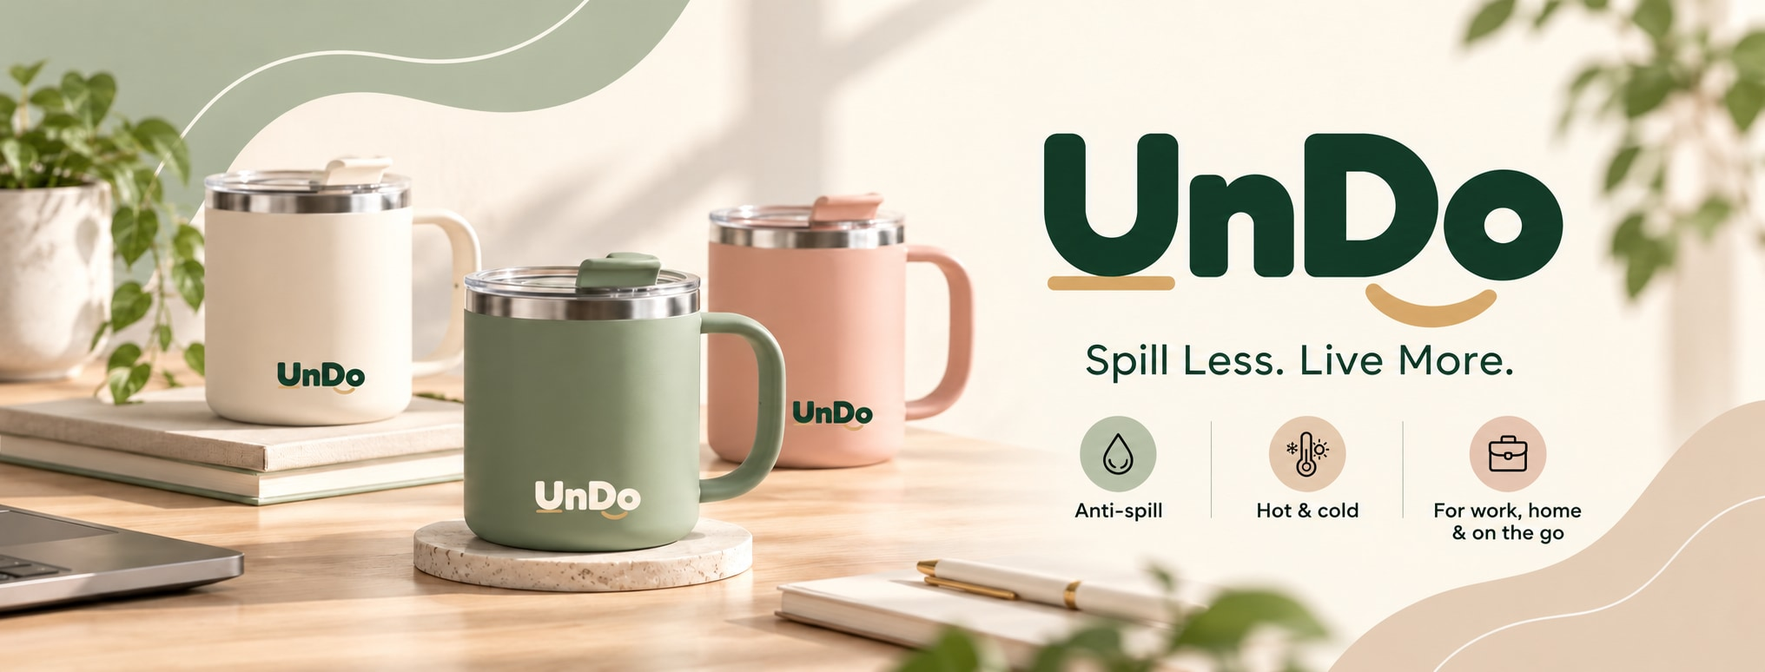
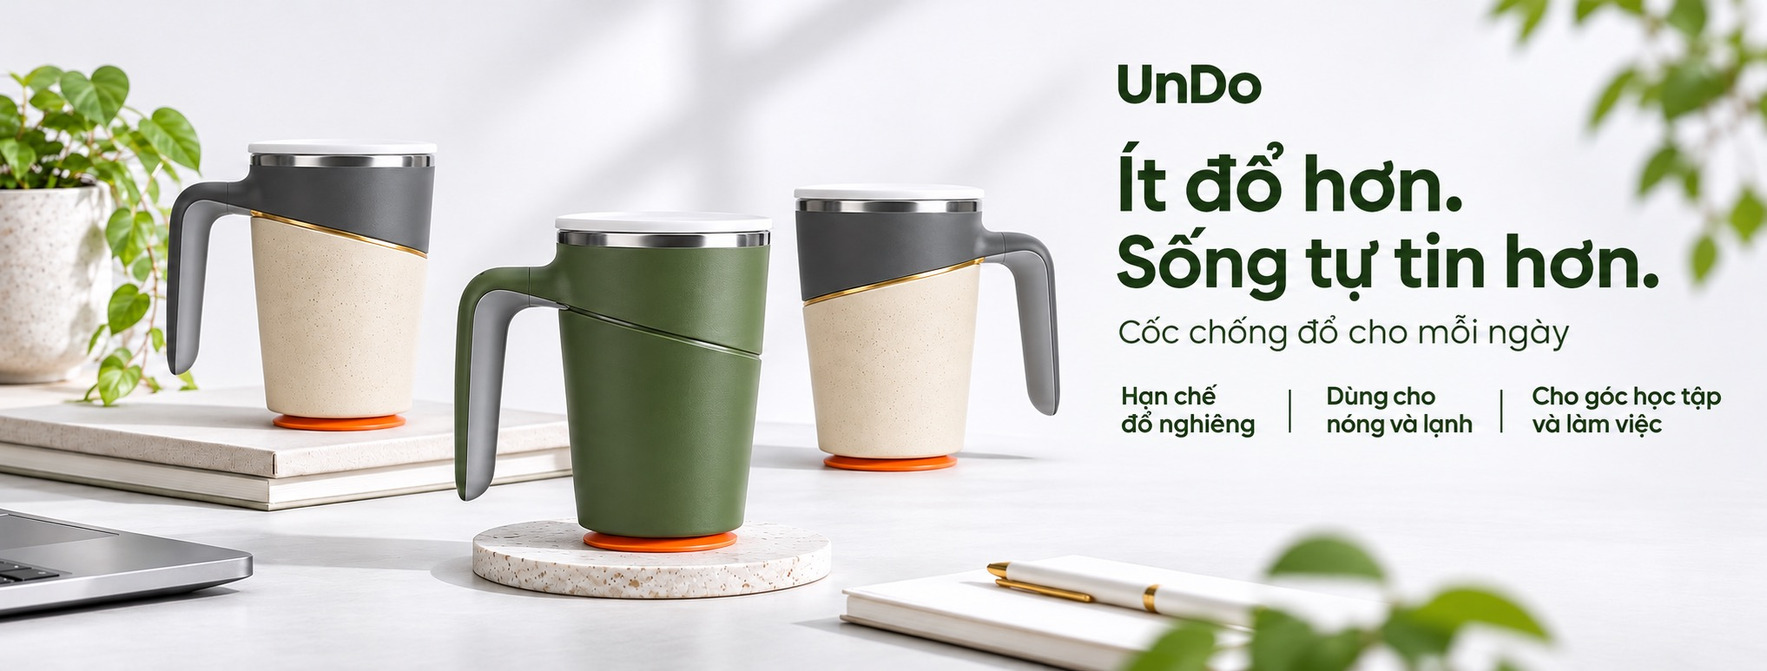
Update imagery and refine site layout

diff --git a/index.html b/index.html
@@ -28,7 +28,7 @@
 <div class="searchbox" id="searchBox"><div class="wrap"><svg aria-hidden="true" width="25" height="25" fill="none" stroke="currentColor" stroke-width="1.5" viewBox="0 0 24 24"><circle cx="10" cy="10" r="7"/><path d="m15 15 6 6"/></svg><input id="searchInput" type="search" placeholder="Tìm mẫu cốc hoặc phân loại..." aria-label="Tìm kiếm sản phẩm"/><button class="close" id="closeSearch" aria-label="Đóng tìm kiếm">×</button></div><div class="wrap"><p>Gợi ý: Basic, Minimalism, Gaming Edition, Art, Meme</p></div></div>
 <main id="main">
   <section id="top" aria-label="Bộ sưu tập Undo">
-    <div class="hero-photo"><img src="asset/hero.jpg" alt="Bộ sưu tập cốc chống đổ Undo màu kem, xanh sage và hồng, slogan Spill Less. Live More." fetchpriority="high" /></div>
+    <div class="hero-photo"><img src="asset/hero.jpg?v=20261112" alt="Cốc Basic và Minimalism trên nền trắng. Ít đổ hơn. Sống tự tin hơn. Cốc chống đổ cho mỗi ngày." fetchpriority="high" /></div>
     <div class="hero-foot"><div class="wrap"><div class="hero-intro"><h1>Một ngày không tràn đổ.</h1><p>Cốc chống đổ Undo cho bàn học và góc làm việc.</p></div><div class="actions"><a class="btn" href="#collection">Chọn cốc</a><a class="btn secondary" href="#why">Xem thiết kế</a></div></div></div>
   </section>
   <div class="short-features"><div class="wrap feature-list">
@@ -37,27 +37,27 @@
     <div class="short-feature"><svg aria-hidden="true" viewBox="0 0 24 24" fill="none" stroke="currentColor" stroke-width="1.7"><path d="m6 8 6-5 6 5v11l-6 3-6-3zM6 8l6 4 6-4M12 12v10"/></svg>Đơn giản, dễ sử dụng</div>
   </div></div>
   <section class="section" id="collection"><div class="wrap">
-    <div class="section-head"><div><h2 class="section-title">Tất cả</h2><p class="subtext">Sáu mẫu cốc với nhiều phân loại để lựa chọn.</p></div><span class="section-link">Sáu mẫu cốc Undo</span></div>
+    <div class="section-head"><div><h2 class="section-title">Tất cả</h2><p class="subtext">Sáu mẫu cốc với nhiều phân loại để lựa chọn.</p></div></div>
     <div class="filters" id="filters"><span class="result-count" id="resultCount">6 sản phẩm</span></div>
     <div class="products" id="productGrid" aria-live="polite"><article class="product"><div class="product-art"><img src="asset/san_pham/Basic_DangCao_XanhReu.png" alt="Basic" /></div><div class="product-info"><h3 class="product-name">Basic</h3><div class="price">179.000đ</div><p>4 phân loại</p></div></article><article class="product"><div class="product-art"><img src="asset/san_pham/Minimalism_CoQuai_KemBe.png" alt="Minimalism" /></div><div class="product-info"><h3 class="product-name">Minimalism</h3><div class="price">199.000đ</div><p>4 phân loại</p></div></article><article class="product"><div class="product-art"><img src="asset/san_pham/Gaming_Edition_QuaiGaming_XanhNgoc.png" alt="Gaming Edition" /></div><div class="product-info"><h3 class="product-name">Gaming Edition</h3><div class="price">229.000đ</div><p>4 phân loại</p></div></article><article class="product"><div class="product-art"><img src="asset/san_pham/Art_1.png" alt="Art" /></div><div class="product-info"><h3 class="product-name">Art</h3><div class="price">229.000đ</div><p>4 phân loại</p></div></article><article class="product"><div class="product-art"><img src="asset/san_pham/Meme_1.png" alt="Meme" /></div><div class="product-info"><h3 class="product-name">Meme</h3><div class="price">219.000đ</div><p>4 phân loại</p></div></article><article class="product"><div class="product-art"><img src="asset/san_pham/Coc_Tu_Thiet_Ke_Trang_CoQuai.png" alt="Cốc tự thiết kế" /></div><div class="product-info"><h3 class="product-name">Cốc tự thiết kế</h3><div class="price">249.000đ</div><p>2 phân loại</p></div></article></div><noscript><p class="fineprint">Bật JavaScript để chọn phân loại và dùng giỏ hàng demo.</p></noscript>
   </div></section>
   <section class="editorial" id="why"><div class="editorial-row">
-    <div class="editorial-image"><img src="asset/desk.jpg" loading="lazy" alt="Undo trên bàn làm việc cạnh laptop và sổ tay" /></div>
+    <div class="editorial-image"><img src="asset/desk.jpg?v=20261112" loading="lazy" alt="Cốc Basic và Minimalism trên bàn trắng cạnh laptop và sổ tay" /></div>
     <div class="editorial-content"><h2>Thiết kế của Undo</h2><p>Đôi khi, chỉ một cú chạm nhẹ cũng đủ khiến mọi thứ đảo lộn. Undo được lên ý tưởng để chiếc cốc có thể đứng vững hơn trong những khoảnh khắc bận rộn.</p><ul class="benefits"><li>Đế chống nghiêng cho bề mặt phẳng, nhẵn</li><li>Thân cốc cách nhiệt, dùng cho nóng và lạnh</li><li>Phong cách tối giản, hợp mọi góc bàn</li></ul><a href="#collection" class="btn">Chọn cốc của bạn</a></div>
   </div></section>
-  <section class="color-promo"><div class="wrap color-layout"><div class="color-copy"><h2>Chọn mẫu cốc</h2><p>Khám phá các mẫu và phân loại cốc Undo cho góc làm việc mỗi ngày.</p><a href="#collection" class="btn secondary">Xem các mẫu cốc</a></div><div class="color-pic"><img src="asset/collection.jpg" loading="lazy" alt="Ảnh minh họa cốc Undo" /></div></div></section>
-  <section class="story" id="story"><div class="wrap story-inner"><div class="story-content"><h2>Câu chuyện Undo</h2><p>Undo ra đời từ một ý tưởng rất đơn giản: những rắc rối nhỏ không nên làm gián đoạn cả một ngày. Chúng mình tin rằng thiết kế đẹp nhất là thiết kế khiến cuộc sống thuận tiện hơn.</p><p>Từ bàn học đến phòng họp, Undo muốn đồng hành cùng những phút giây bạn tập trung làm điều mình thích.</p><a href="#collection" class="btn secondary">Xem sản phẩm</a></div><div class="story-image"><img src="asset/story.jpg" loading="lazy" alt="Cốc Undo xanh sage được cầm trên tay"/></div></div></section>
+  <section class="color-promo"><div class="wrap color-layout"><div class="color-copy"><h2>Chọn mẫu cốc</h2><p>Khám phá các mẫu và phân loại cốc Undo cho góc làm việc mỗi ngày.</p><a href="#collection" class="btn secondary">Xem các mẫu cốc</a></div><div class="color-pic"><img src="asset/collection.jpg?v=20261112" loading="lazy" alt="Ảnh minh họa cốc Undo" /></div></div></section>
+  <section class="story" id="story"><div class="wrap story-inner"><div class="story-content"><h2>Câu chuyện Undo</h2><p>Undo ra đời từ một ý tưởng rất đơn giản: những rắc rối nhỏ không nên làm gián đoạn cả một ngày. Chúng mình tin rằng thiết kế đẹp nhất là thiết kế khiến cuộc sống thuận tiện hơn.</p><p>Từ bàn học đến phòng họp, Undo muốn đồng hành cùng những phút giây bạn tập trung làm điều mình thích.</p><a href="#collection" class="btn secondary">Xem sản phẩm</a></div><div class="story-image"><img src="asset/story.jpg?v=20261112" loading="lazy" alt="Cốc Basic xanh rêu được cầm trên tay"/></div></div></section>
   <section class="policy-wrap" id="policy"><div class="wrap"><div class="policy-grid">
     <div class="policy-item"><div class="policy-icon"><svg aria-hidden="true" viewBox="0 0 24 24" fill="none" stroke="currentColor"><path d="M2 7h12v10H2zM14 10h4l4 4v3h-8z"/><circle cx="6" cy="18" r="2"/><circle cx="18" cy="18" r="2"/></svg></div><div class="policy-title">Giao hàng toàn quốc</div><p class="policy-desc">Miễn phí từ 399.000đ sau giảm giá</p></div>
     <div class="policy-item"><div class="policy-icon"><svg aria-hidden="true" viewBox="0 0 24 24" fill="none" stroke="currentColor"><path d="M12 2 4 6v6c0 5 3 8 8 10 5-2 8-5 8-10V6z"/><path d="m8 12 3 3 5-6"/></svg></div><div class="policy-title">Bảo hành</div><p class="policy-desc">6 tháng từ ngày nhận, áp dụng cho lỗi sản xuất</p></div>
     <div class="policy-item"><div class="policy-icon"><svg aria-hidden="true" viewBox="0 0 24 24" fill="none" stroke="currentColor"><path d="M3 9V4h5M3 4a9 9 0 1 1-1 11"/><path d="M12 7v5l4 2"/></svg></div><div class="policy-title">Đổi trả</div><p class="policy-desc">Trong 7 ngày nếu lỗi, giao sai hoặc thiếu hàng</p></div>
     <div class="policy-item"><div class="policy-icon"><svg aria-hidden="true" viewBox="0 0 24 24" fill="none" stroke="currentColor"><path d="M4 5h16v12H8l-4 4z"/><path d="M8 10h8M8 13h5"/></svg></div><div class="policy-title">Đặt hàng thử</div><p class="policy-desc">Không gửi đơn hoặc thu tiền thật</p></div>
   </div></div></section>
-  <section class="section" id="faq"><div class="wrap faq-grid"><div><h2>Hỏi Undo<br/>một chút nhé?</h2><p class="subtext">Thông tin dự kiến trong bản demo.</p></div><div>
-    <details><summary>Điểm đặc biệt của cốc Undo là gì?</summary><p>Ý tưởng Undo kết hợp đế chống nghiêng với kiểu dáng tối giản để hạn chế những cú đổ bất ngờ trên bàn. Hiệu quả thực tế còn phụ thuộc bề mặt và cần được thử nghiệm trên sản phẩm thật. <a href="huong-dan-su-dung.html#su-dung">Xem hướng dẫn sử dụng Everyday Mug 400 ml.</a></p></details>
-    <details><summary>Undo có dùng được cho đồ uống nóng và lạnh không?</summary><p>Bản thiết kế dự kiến dùng thân cốc giữ nhiệt cho đồ uống nóng hoặc lạnh. Thời gian giữ nhiệt chính xác sẽ được công bố sau khi kiểm thử. <a href="huong-dan-su-dung.html#an-toan">Xem hướng dẫn sử dụng Everyday Mug 400 ml.</a></p></details>
-    <details><summary>Đế chống nghiêng dùng trên bề mặt nào?</summary><p>Phù hợp nhất với bàn phẳng, sạch và nhẵn. Không nên dựa hoàn toàn vào khả năng chống đổ trên bề mặt gồ ghề, có khăn trải bàn hoặc khi mang đi xa. <a href="huong-dan-su-dung.html#su-dung">Xem hướng dẫn sử dụng Everyday Mug 400 ml.</a></p></details>
-    <details><summary>Chính sách đổi trả và bảo hành ra sao?</summary><p>Chính sách mô phỏng: đổi trả trong 7 ngày khi sản phẩm lỗi hoặc giao sai, bảo hành 6 tháng cho lỗi sản xuất. Website không nhận đơn hàng hoặc thanh toán thật.</p></details>
+  <section class="section" id="faq"><div class="wrap faq-grid"><div><h2>Hỏi Undo một chút nhé?</h2><p class="subtext">Thông tin dự kiến trong bản demo.</p></div><div>
+    <details><summary><span>Điểm đặc biệt của cốc Undo là gì?</span></summary><p>Ý tưởng Undo kết hợp đế chống nghiêng với kiểu dáng tối giản để hạn chế những cú đổ bất ngờ trên bàn. Hiệu quả thực tế còn phụ thuộc bề mặt và cần được thử nghiệm trên sản phẩm thật. <a href="huong-dan-su-dung.html#su-dung">Xem hướng dẫn sử dụng Everyday Mug 400 ml.</a></p></details>
+    <details><summary><span>Undo có dùng được cho đồ uống nóng và lạnh không?</span></summary><p>Bản thiết kế dự kiến dùng thân cốc giữ nhiệt cho đồ uống nóng hoặc lạnh. Thời gian giữ nhiệt chính xác sẽ được công bố sau khi kiểm thử. <a href="huong-dan-su-dung.html#an-toan">Xem hướng dẫn sử dụng Everyday Mug 400 ml.</a></p></details>
+    <details><summary><span>Đế chống nghiêng dùng trên bề mặt nào?</span></summary><p>Phù hợp nhất với bàn phẳng, sạch và nhẵn. Không nên dựa hoàn toàn vào khả năng chống đổ trên bề mặt gồ ghề, có khăn trải bàn hoặc khi mang đi xa. <a href="huong-dan-su-dung.html#su-dung">Xem hướng dẫn sử dụng Everyday Mug 400 ml.</a></p></details>
+    <details><summary><span>Chính sách đổi trả và bảo hành ra sao?</span></summary><p>Chính sách mô phỏng: đổi trả trong 7 ngày khi sản phẩm lỗi hoặc giao sai, bảo hành 6 tháng cho lỗi sản xuất. Website không nhận đơn hàng hoặc thanh toán thật.</p></details>
   </div></div></section>
   <section class="newsletter"><div class="wrap newsletter-inner"><div><h2>Ghé Undo, nhận điều hay.</h2><p id="newsletterHelp">Thử đăng ký bằng email mẫu có sẵn. Không nhập email thật; website không gửi hoặc lưu email.</p></div><form id="newsletterForm"><label class="newsletter-field">Email mẫu<input type="email" value="demo@example.com" readonly autocomplete="off" aria-describedby="newsletterHelp" /></label><button type="submit">Thử đăng ký</button></form></div></section>
 </main>
@@ -102,7 +102,7 @@ function save(){try{localStorage.setItem('undo_cart',JSON.stringify(cart))}catch
 let toastTimeout;
 function toast(msg){$('toast').textContent=msg;$('toast').classList.add('show');clearTimeout(toastTimeout);toastTimeout=setTimeout(()=>$('toast').classList.remove('show'),2900)}
 function open(id){const trigger=active?returnFocus:document.activeElement;close();returnFocus=trigger;active=id;pageRegions.forEach(el=>el.inert=true);$('overlay').classList.add('open');$(id).classList.add('open');$(id).setAttribute('aria-hidden','false');$(id).inert=false;document.body.classList.add('noscroll');setTimeout(()=>{const el=$(id).querySelector('.modal-close,.close');if(el)el.focus()},60)}
-function close(){const wasOpen=Boolean(active);active='';pageRegions.forEach(el=>el.inert=false);$('overlay').classList.remove('open');document.querySelectorAll('.drawer,.modal').forEach(el=>{el.classList.remove('open');el.setAttribute('aria-hidden','true');el.inert=true});document.body.classList.remove('noscroll');if(wasOpen&&returnFocus?.isConnected)returnFocus.focus()}
+function close(){const wasOpen=Boolean(active);active='';pageRegions.forEach(el=>el.inert=false);$('overlay').classList.remove('open');document.querySelectorAll('.drawer,.modal').forEach(el=>{el.classList.remove('open');el.setAttribute('aria-hidden','true');el.inert=true});document.body.classList.remove('noscroll');if(wasOpen&&returnFocus?.isConnected)returnFocus.focus({preventScroll:true})}
 document.addEventListener('keydown',e=>{
  if(e.key!=='Tab'||!active)return;
  const nodes=[...$(active).querySelectorAll('button:not(:disabled),a[href],input:not(:disabled),select,textarea,[tabindex="0"]')].filter(el=>el.getClientRects().length);

diff --git a/cau-hoi-thuong-gap.html b/cau-hoi-thuong-gap.html
@@ -12,11 +12,11 @@
 </head>
 <body>
 <a class="skip" href="#main">Bỏ qua đến nội dung</a>
-<header class="support-header"><div class="nav"><a class="brand" href="index.html" aria-label="UnDo - Trang chủ"><img src="asset/logo.png" alt="UnDo" /></a><nav class="support-nav" aria-label="Điều hướng chính"><a href="index.html">Trang chủ</a><a href="index.html#collection">Sản phẩm</a><a href="index.html#story">Về UnDo</a><a href="huong-dan-su-dung.html">Hướng dẫn sử dụng</a></nav></div></header>
+<header class="support-header"><div class="nav"><a class="brand" href="index.html" aria-label="UnDo - Trang chủ"><img src="asset/logo.png" alt="UnDo" /></a><nav class="support-nav" aria-label="Điều hướng chính"><a href="index.html#collection">Sản phẩm</a><a href="index.html#why">Điểm nổi bật</a><a href="index.html#story">Về Undo</a><a href="chinh-sach.html">Chính sách</a><a href="huong-dan-su-dung.html">Hướng dẫn sử dụng</a></nav></div></header>
 <main id="main" class="wrap support-page">
 <a class="support-back" href="index.html">Về trang chủ</a>
 <h1>Câu hỏi thường gặp</h1><p class="support-intro">Chính sách mô phỏng của dự án học phần. Website không mở bán hoặc nhận thanh toán.</p>
-<div class="support-layout"><nav class="support-menu" aria-label="Danh mục hỗ trợ"><a href="chinh-sach.html">Tất cả chính sách</a><a href="giao-hang-doi-tra.html">Giao hàng và đổi trả</a><a href="dat-hang-thanh-toan.html">Đặt hàng và thanh toán</a><a href="bao-hanh.html">Chính sách bảo hành</a><a href="bao-mat.html">Chính sách bảo mật</a><a href="dieu-khoan-su-dung.html">Điều khoản sử dụng</a><a href="huong-dan-su-dung.html">Hướng dẫn sử dụng</a><a href="cau-hoi-thuong-gap.html" aria-current="page">Câu hỏi thường gặp</a></nav><div class="support-content"><details><summary>Đặt hàng thử</summary><p>Bạn có thể thêm sản phẩm vào giỏ và hoàn tất các bước đặt hàng thử. Website không gửi đơn hàng hoặc thu tiền.</p></details><details><summary>Bề mặt phù hợp với cốc</summary><p>Bề mặt phẳng, sạch và nhẵn phù hợp với ý tưởng hạn chế nghiêng của cốc. Bạn vẫn cần cầm giữ cẩn thận khi di chuyển hoặc sử dụng đồ uống nóng. <a href="huong-dan-su-dung.html#su-dung">Xem hướng dẫn đặt và nhấc cốc Everyday Mug 400 ml.</a></p></details><details><summary>Vệ sinh và bảo quản Everyday Mug 400 ml</summary><p>Dùng dụng cụ mềm, vệ sinh nắp, gioăng và đế hút, rồi để khô trước khi cất. <a href="huong-dan-su-dung.html#ve-sinh-bao-quan">Xem hướng dẫn vệ sinh và bảo quản.</a></p></details><details><summary>Everyday Mug 400 ml có dùng được trong lò vi sóng không?</summary><p>Không đưa cốc vào lò vi sóng hoặc lò nướng vì cốc có lõi inox. <a href="huong-dan-su-dung.html#an-toan">Xem các lưu ý an toàn.</a></p></details><details><summary>Thời hạn đổi trả và bảo hành</summary><p>Theo chính sách mô phỏng, bạn có thể yêu cầu đổi trả trong 7 ngày kể từ khi nhận hàng nếu sản phẩm bị lỗi, giao sai hoặc thiếu; bảo hành lỗi sản xuất trong 6 tháng từ ngày nhận hàng.</p></details><details><summary>Dữ liệu dùng trong biểu mẫu</summary><p>Checkout chỉ cho chọn mã lượt thử và khu vực mẫu. Form đăng ký dùng sẵn email demo@example.com và không cho sửa. Không nhập tên thật, số điện thoại, email hoặc địa chỉ của bạn hay người khác.</p></details><details><summary>Xóa giỏ hàng</summary><p>Bạn có thể xóa từng sản phẩm trên website hoặc xóa dữ liệu của website trong cài đặt trình duyệt.</p></details><details><summary>Phí giao hàng</summary><p>Đơn từ 399.000đ tiền sản phẩm sau giảm giá được miễn phí vận chuyển. Với đơn dưới mức này, phí là 15.000đ ở nội thành Hà Nội và từ 25.000đ đến 40.000đ ở khu vực khác. Tạm tính trong giỏ chỉ tính tiền sản phẩm; checkout hiển thị thêm phí giao và tổng dự kiến theo khu vực mẫu. Phí khu vực khác vẫn là một khoảng ước tính.</p></details><details><summary>Thời gian nhận hàng</summary><p>Thời gian giao dự kiến là 1 đến 2 ngày làm việc tại nội thành Hà Nội và 3 đến 5 ngày làm việc tại các tỉnh, thành khác, sau khi bàn giao cho vận chuyển. Đơn được xử lý trong 1 ngày làm việc; khu vực xa trung tâm có thể cần thêm thời gian.</p></details><details><summary>Yêu cầu đổi trả khi không có video mở hộp</summary><p>Bạn không bắt buộc quay video. Ảnh hoặc video giúp đối chiếu tình trạng khi nhận hàng. Bạn có thể cung cấp mã đơn, mô tả và bằng chứng phù hợp khác.</p></details><details><summary>Đổi màu do thay đổi sở thích</summary><p>Chính sách 7 ngày dành cho hàng lỗi, giao sai hoặc thiếu hàng. Trường hợp nhận đúng sản phẩm nhưng thay đổi sở thích chưa thuộc diện đổi trả tiêu chuẩn. Bạn nên kiểm tra màu và số lượng trước khi xác nhận.</p></details><details><summary>Thời gian hoàn tiền</summary><p>Thời gian xử lý dự kiến là 3 đến 5 ngày làm việc sau khi UnDo chấp nhận yêu cầu. Website không thực hiện giao dịch hoặc hoàn tiền.</p></details><details><summary>Giỏ hàng khi đổi thiết bị</summary><p>Giỏ hàng lưu trên trình duyệt đang sử dụng và không đồng bộ qua tài khoản. Đổi thiết bị, đổi trình duyệt hoặc xóa dữ liệu trang web có thể làm mất lựa chọn. Sau khi hoàn tất đặt hàng thử, giỏ hàng cũng được làm trống.</p></details><details><summary>Email xác nhận và mã vận đơn</summary><p>Website hiện không gửi email, SMS hoặc mã vận đơn. Kết quả đặt hàng chỉ hiển thị trên màn hình sau khi hoàn tất biểu mẫu.</p></details></div></div>
+<div class="support-layout"><nav class="support-menu" aria-label="Danh mục hỗ trợ"><a href="chinh-sach.html">Tất cả chính sách</a><a href="giao-hang-doi-tra.html">Giao hàng và đổi trả</a><a href="dat-hang-thanh-toan.html">Đặt hàng và thanh toán</a><a href="bao-hanh.html">Chính sách bảo hành</a><a href="bao-mat.html">Chính sách bảo mật</a><a href="dieu-khoan-su-dung.html">Điều khoản sử dụng</a><a href="huong-dan-su-dung.html">Hướng dẫn sử dụng</a><a href="cau-hoi-thuong-gap.html" aria-current="page">Câu hỏi thường gặp</a></nav><div class="support-content"><details><summary><span>Đặt hàng thử</span></summary><p>Bạn có thể thêm sản phẩm vào giỏ và hoàn tất các bước đặt hàng thử. Website không gửi đơn hàng hoặc thu tiền.</p></details><details><summary><span>Bề mặt phù hợp với cốc</span></summary><p>Bề mặt phẳng, sạch và nhẵn phù hợp với ý tưởng hạn chế nghiêng của cốc. Bạn vẫn cần cầm giữ cẩn thận khi di chuyển hoặc sử dụng đồ uống nóng. <a href="huong-dan-su-dung.html#su-dung">Xem hướng dẫn đặt và nhấc cốc Everyday Mug 400 ml.</a></p></details><details><summary><span>Vệ sinh và bảo quản Everyday Mug 400 ml</span></summary><p>Dùng dụng cụ mềm, vệ sinh nắp, gioăng và đế hút, rồi để khô trước khi cất. <a href="huong-dan-su-dung.html#ve-sinh-bao-quan">Xem hướng dẫn vệ sinh và bảo quản.</a></p></details><details><summary><span>Everyday Mug 400 ml có dùng được trong lò vi sóng không?</span></summary><p>Không đưa cốc vào lò vi sóng hoặc lò nướng vì cốc có lõi inox. <a href="huong-dan-su-dung.html#an-toan">Xem các lưu ý an toàn.</a></p></details><details><summary><span>Thời hạn đổi trả và bảo hành</span></summary><p>Theo chính sách mô phỏng, bạn có thể yêu cầu đổi trả trong 7 ngày kể từ khi nhận hàng nếu sản phẩm bị lỗi, giao sai hoặc thiếu; bảo hành lỗi sản xuất trong 6 tháng từ ngày nhận hàng.</p></details><details><summary><span>Dữ liệu dùng trong biểu mẫu</span></summary><p>Checkout chỉ cho chọn mã lượt thử và khu vực mẫu. Form đăng ký dùng sẵn email demo@example.com và không cho sửa. Không nhập tên thật, số điện thoại, email hoặc địa chỉ của bạn hay người khác.</p></details><details><summary><span>Xóa giỏ hàng</span></summary><p>Bạn có thể xóa từng sản phẩm trên website hoặc xóa dữ liệu của website trong cài đặt trình duyệt.</p></details><details><summary><span>Phí giao hàng</span></summary><p>Đơn từ 399.000đ tiền sản phẩm sau giảm giá được miễn phí vận chuyển. Với đơn dưới mức này, phí là 15.000đ ở nội thành Hà Nội và từ 25.000đ đến 40.000đ ở khu vực khác. Tạm tính trong giỏ chỉ tính tiền sản phẩm; checkout hiển thị thêm phí giao và tổng dự kiến theo khu vực mẫu. Phí khu vực khác vẫn là một khoảng ước tính.</p></details><details><summary><span>Thời gian nhận hàng</span></summary><p>Thời gian giao dự kiến là 1 đến 2 ngày làm việc tại nội thành Hà Nội và 3 đến 5 ngày làm việc tại các tỉnh, thành khác, sau khi bàn giao cho vận chuyển. Đơn được xử lý trong 1 ngày làm việc; khu vực xa trung tâm có thể cần thêm thời gian.</p></details><details><summary><span>Yêu cầu đổi trả khi không có video mở hộp</span></summary><p>Bạn không bắt buộc quay video. Ảnh hoặc video giúp đối chiếu tình trạng khi nhận hàng. Bạn có thể cung cấp mã đơn, mô tả và bằng chứng phù hợp khác.</p></details><details><summary><span>Đổi màu do thay đổi sở thích</span></summary><p>Chính sách 7 ngày dành cho hàng lỗi, giao sai hoặc thiếu hàng. Trường hợp nhận đúng sản phẩm nhưng thay đổi sở thích chưa thuộc diện đổi trả tiêu chuẩn. Bạn nên kiểm tra màu và số lượng trước khi xác nhận.</p></details><details><summary><span>Thời gian hoàn tiền</span></summary><p>Thời gian xử lý dự kiến là 3 đến 5 ngày làm việc sau khi UnDo chấp nhận yêu cầu. Website không thực hiện giao dịch hoặc hoàn tiền.</p></details><details><summary><span>Giỏ hàng khi đổi thiết bị</span></summary><p>Giỏ hàng lưu trên trình duyệt đang sử dụng và không đồng bộ qua tài khoản. Đổi thiết bị, đổi trình duyệt hoặc xóa dữ liệu trang web có thể làm mất lựa chọn. Sau khi hoàn tất đặt hàng thử, giỏ hàng cũng được làm trống.</p></details><details><summary><span>Email xác nhận và mã vận đơn</span></summary><p>Website hiện không gửi email, SMS hoặc mã vận đơn. Kết quả đặt hàng chỉ hiển thị trên màn hình sau khi hoàn tất biểu mẫu.</p></details></div></div>
 </main>
 <footer class="footer"><div class="wrap"><div class="footer-cols">
   <div class="footer-brand"><a class="brand" href="index.html#top"><img src="asset/logo.png" alt="Undo" /></a><p>Spill Less. Live More.<br/>Cốc chống đổ cho một ngày tự tin hơn.</p><div class="demo-label"><p>Student project - E-Business, Hanoi University</p><p>UnDo là dự án học phần. Sản phẩm và các chính sách thương mại là nội dung mô phỏng, không áp dụng cho giao dịch thực tế. Website không nhận đơn hàng hoặc thanh toán thật.</p></div></div>

diff --git a/styles.css b/styles.css
@@ -8,7 +8,7 @@
 @import url('./tokens.css');
 @import url('./base.css');
 
-html{scroll-behavior:smooth;scroll-padding-top:var(--space-3xl)}
+html{scroll-behavior:smooth;scroll-padding-top:var(--space-3xl);scrollbar-gutter:stable}
 body{color:var(--color-ink-2);font-synthesis:none}
 html:has(body.noscroll){overflow-y:hidden}
 button{cursor:pointer}a{text-decoration:none}svg{flex-shrink:0}
@@ -106,7 +106,7 @@ input::placeholder,textarea::placeholder{color:var(--color-muted);opacity:1}
 .story-inner{display:grid;grid-template-columns:repeat(2,minmax(0,1fr));gap:var(--gap-columns);align-items:center}
 .story-content{padding-bottom:var(--space-2xl)}
 .story-content p+p{margin-top:var(--space-md)}
-.story-content .btn{margin-top:var(--space-lg)}
+.story-content .btn,.color-copy .btn{margin-top:var(--space-lg)}
 .story-image{align-self:center;border-radius:var(--radius-card);overflow:clip}
 .story-image img{height:auto;object-fit:contain}
 .policy-wrap{border-block:1px solid var(--color-rule)}
@@ -225,10 +225,10 @@ input::placeholder,textarea::placeholder{color:var(--color-muted);opacity:1}
 @media(max-width:640px){.product-art>a{height:auto}.product-art img{height:auto;aspect-ratio:800/920}}
 
 /* Trang hỗ trợ */
-.support-header{background:var(--color-paper);border-bottom:1px solid var(--color-rule)}
+.support-header{position:sticky;top:0;z-index:var(--z-sticky-nav);background:var(--color-paper);border-bottom:1px solid var(--color-rule)}
 .support-header .nav{height:53.333px}
-.support-nav{display:flex;align-items:center;gap:var(--space-lg);flex-wrap:wrap}
-.support-nav a{font-size:var(--text-sm)}
+.support-nav{display:flex;align-items:center;justify-content:flex-end;gap:var(--gap-columns);flex-wrap:wrap;margin-left:auto}
+.support-nav a{font-size:var(--text-sm);font-weight:500;white-space:nowrap}
 .support-nav a:hover,.support-menu a:hover,.support-content a:hover{text-decoration:underline;text-underline-offset:4px}
 .support-page{padding-block:var(--space-2xl) var(--space-3xl)}
 .support-back{display:inline-block;margin-bottom:var(--space-lg);font-size:var(--text-sm);text-decoration:underline;text-underline-offset:4px}
@@ -251,7 +251,7 @@ input::placeholder,textarea::placeholder{color:var(--color-muted);opacity:1}
 .support-content details[open] summary::after{content:'−'}
 .support-content details p{padding-block:var(--space-sm)}
 .support-footer{padding-block:var(--space-lg);border-top:1px solid var(--color-rule);color:var(--color-muted);font-size:var(--text-sm)}
-@media(max-width:640px){.support-header .nav{height:auto;min-height:48px;gap:var(--space-md);padding-block:var(--space-xs)}.support-nav{gap:var(--space-md);justify-content:flex-end}.support-page{padding-block:var(--space-xl) var(--space-2xl)}.support-layout{grid-template-columns:minmax(0,1fr);gap:var(--space-xl);margin-top:var(--space-xl)}}
+@media(max-width:900px){.support-header .nav{height:auto;min-height:48px;gap:var(--space-md);padding-block:var(--space-xs)}.support-nav{gap:var(--space-md);justify-content:flex-end}.support-page{padding-block:var(--space-xl) var(--space-2xl)}.support-layout{grid-template-columns:minmax(0,1fr);gap:var(--space-xl);margin-top:var(--space-xl)}}
 
 .support-table{overflow-x:auto;margin-block:var(--space-md)}
 .support-table table{border-collapse:collapse;table-layout:fixed;width:100%;font-size:var(--text-sm)}
@@ -298,3 +298,16 @@ select option:checked{background:var(--color-accent-2)}
 .modal-product>img[src*="/Gaming_Edition_"]{object-fit:contain;background:var(--product-gaming-background)}
 @media(max-width:640px){.modal-product>img{aspect-ratio:800/920}}
 @media(min-width:641px){.modal-product{height:calc(50cqw * 920 / 800)}}
+
+/* Keep short reading blocks balanced without fixed line breaks. */
+.faq-grid h2{max-width:13ch}
+summary>span{min-width:0;text-wrap:pretty}
+summary::after{flex-shrink:0}
+.short-feature,.policy-title,.policy-desc,.product-description,.fineprint,.announce,.demo-label p{ text-wrap:pretty }
+.support-content h3{margin-top:var(--space-md);margin-bottom:var(--space-sm);text-wrap:balance}
+.support-content li{ text-wrap:pretty }
+.checkout-links{display:flex;flex-wrap:wrap;gap:var(--space-sm) var(--space-md)}
+.checkout-links a{display:inline-block}
+
+.color-copy p{max-width:38ch;text-wrap:balance}
+.story-content p{text-wrap:balance}

diff --git a/huong-dan-su-dung.html b/huong-dan-su-dung.html
@@ -12,12 +12,12 @@
 </head>
 <body>
 <a class="skip" href="#main">Bỏ qua đến nội dung</a>
-<header class="support-header"><div class="nav"><a class="brand" href="index.html" aria-label="UnDo - Trang chủ"><img src="asset/logo.png" alt="UnDo" /></a><nav class="support-nav" aria-label="Điều hướng chính"><a href="index.html">Trang chủ</a><a href="index.html#collection">Sản phẩm</a><a href="index.html#story">Về UnDo</a><a href="huong-dan-su-dung.html">Hướng dẫn sử dụng</a></nav></div></header>
+<header class="support-header"><div class="nav"><a class="brand" href="index.html" aria-label="UnDo - Trang chủ"><img src="asset/logo.png" alt="UnDo" /></a><nav class="support-nav" aria-label="Điều hướng chính"><a href="index.html#collection">Sản phẩm</a><a href="index.html#why">Điểm nổi bật</a><a href="index.html#story">Về Undo</a><a href="chinh-sach.html">Chính sách</a><a href="huong-dan-su-dung.html">Hướng dẫn sử dụng</a></nav></div></header>
 <main id="main" class="wrap support-page">
 <a class="support-back" href="index.html">Về trang chủ</a>
 <h1>Hướng dẫn sử dụng</h1><p class="support-intro">Dành cho cốc UnDo Everyday Mug 400 ml. Nội dung sản phẩm thuộc dự án học phần; website không mở bán hoặc nhận thanh toán.</p>
 <div class="support-layout"><nav class="support-menu" aria-label="Danh mục hỗ trợ"><a href="chinh-sach.html">Tất cả chính sách</a><a href="giao-hang-doi-tra.html">Giao hàng và đổi trả</a><a href="dat-hang-thanh-toan.html">Đặt hàng và thanh toán</a><a href="bao-hanh.html">Chính sách bảo hành</a><a href="bao-mat.html">Chính sách bảo mật</a><a href="dieu-khoan-su-dung.html">Điều khoản sử dụng</a><a href="huong-dan-su-dung.html" aria-current="page">Hướng dẫn sử dụng</a><a href="cau-hoi-thuong-gap.html">Câu hỏi thường gặp</a></nav><div class="support-content"><section id="su-dung"><h2>1. Hướng dẫn sử dụng</h2>
-<h3>1.1. Cơ chế chống đổ thông minh (Suction Base)</h3>
+<h3>1.1. Cơ chế chống đổ thông minh</h3>
 <ul>
 <li><strong>Nguyên lý hoạt động:</strong> Đáy cốc ứng dụng công nghệ đế hút chân không đặc biệt, tạo lực bám dính chắc chắn xuống bề mặt khi xuất hiện lực tác động xô lệch, va chạm hoặc đẩy từ các hướng theo <strong>phương ngang</strong>.</li>
 <li><strong>Điều kiện đặt cốc lý tưởng:</strong> Đặt cốc thẳng đứng trên các bề mặt phẳng, nhẵn, khô ráo và sạch sẽ (bàn gỗ ép phẳng, kính, mặt đá, kim loại, nhựa phẳng...).</li>

diff --git a/chinh-sach.html b/chinh-sach.html
@@ -12,7 +12,7 @@
 </head>
 <body>
 <a class="skip" href="#main">Bỏ qua đến nội dung</a>
-<header class="support-header"><div class="nav"><a class="brand" href="index.html" aria-label="UnDo - Trang chủ"><img src="asset/logo.png" alt="UnDo" /></a><nav class="support-nav" aria-label="Điều hướng chính"><a href="index.html">Trang chủ</a><a href="index.html#collection">Sản phẩm</a><a href="index.html#story">Về UnDo</a><a href="huong-dan-su-dung.html">Hướng dẫn sử dụng</a></nav></div></header>
+<header class="support-header"><div class="nav"><a class="brand" href="index.html" aria-label="UnDo - Trang chủ"><img src="asset/logo.png" alt="UnDo" /></a><nav class="support-nav" aria-label="Điều hướng chính"><a href="index.html#collection">Sản phẩm</a><a href="index.html#why">Điểm nổi bật</a><a href="index.html#story">Về Undo</a><a href="chinh-sach.html">Chính sách</a><a href="huong-dan-su-dung.html">Hướng dẫn sử dụng</a></nav></div></header>
 <main id="main" class="wrap support-page">
 <a class="support-back" href="index.html">Về trang chủ</a>
 <h1>Chính sách</h1><p class="support-intro">Chính sách thương mại dưới đây phục vụ kịch bản mô phỏng. Website không nhận đơn hàng hoặc thanh toán thật.</p>

diff --git a/dat-hang-thanh-toan.html b/dat-hang-thanh-toan.html
@@ -12,7 +12,7 @@
 </head>
 <body>
 <a class="skip" href="#main">Bỏ qua đến nội dung</a>
-<header class="support-header"><div class="nav"><a class="brand" href="index.html" aria-label="UnDo - Trang chủ"><img src="asset/logo.png" alt="UnDo" /></a><nav class="support-nav" aria-label="Điều hướng chính"><a href="index.html">Trang chủ</a><a href="index.html#collection">Sản phẩm</a><a href="index.html#story">Về UnDo</a><a href="huong-dan-su-dung.html">Hướng dẫn sử dụng</a></nav></div></header>
+<header class="support-header"><div class="nav"><a class="brand" href="index.html" aria-label="UnDo - Trang chủ"><img src="asset/logo.png" alt="UnDo" /></a><nav class="support-nav" aria-label="Điều hướng chính"><a href="index.html#collection">Sản phẩm</a><a href="index.html#why">Điểm nổi bật</a><a href="index.html#story">Về Undo</a><a href="chinh-sach.html">Chính sách</a><a href="huong-dan-su-dung.html">Hướng dẫn sử dụng</a></nav></div></header>
 <main id="main" class="wrap support-page">
 <a class="support-back" href="index.html">Về trang chủ</a>
 <h1>Đặt hàng và thanh toán</h1><p class="support-intro">Chính sách mô phỏng của dự án học phần. Website không mở bán hoặc nhận thanh toán.</p>

diff --git a/dieu-khoan-su-dung.html b/dieu-khoan-su-dung.html
@@ -12,7 +12,7 @@
 </head>
 <body>
 <a class="skip" href="#main">Bỏ qua đến nội dung</a>
-<header class="support-header"><div class="nav"><a class="brand" href="index.html" aria-label="UnDo - Trang chủ"><img src="asset/logo.png" alt="UnDo" /></a><nav class="support-nav" aria-label="Điều hướng chính"><a href="index.html">Trang chủ</a><a href="index.html#collection">Sản phẩm</a><a href="index.html#story">Về UnDo</a><a href="huong-dan-su-dung.html">Hướng dẫn sử dụng</a></nav></div></header>
+<header class="support-header"><div class="nav"><a class="brand" href="index.html" aria-label="UnDo - Trang chủ"><img src="asset/logo.png" alt="UnDo" /></a><nav class="support-nav" aria-label="Điều hướng chính"><a href="index.html#collection">Sản phẩm</a><a href="index.html#why">Điểm nổi bật</a><a href="index.html#story">Về Undo</a><a href="chinh-sach.html">Chính sách</a><a href="huong-dan-su-dung.html">Hướng dẫn sử dụng</a></nav></div></header>
 <main id="main" class="wrap support-page">
 <a class="support-back" href="index.html">Về trang chủ</a>
 <h1>Điều khoản sử dụng</h1><p class="support-intro">Chính sách mô phỏng của dự án học phần. Website không mở bán hoặc nhận thanh toán.</p>

diff --git a/giao-hang-doi-tra.html b/giao-hang-doi-tra.html
@@ -12,7 +12,7 @@
 </head>
 <body>
 <a class="skip" href="#main">Bỏ qua đến nội dung</a>
-<header class="support-header"><div class="nav"><a class="brand" href="index.html" aria-label="UnDo - Trang chủ"><img src="asset/logo.png" alt="UnDo" /></a><nav class="support-nav" aria-label="Điều hướng chính"><a href="index.html">Trang chủ</a><a href="index.html#collection">Sản phẩm</a><a href="index.html#story">Về UnDo</a><a href="huong-dan-su-dung.html">Hướng dẫn sử dụng</a></nav></div></header>
+<header class="support-header"><div class="nav"><a class="brand" href="index.html" aria-label="UnDo - Trang chủ"><img src="asset/logo.png" alt="UnDo" /></a><nav class="support-nav" aria-label="Điều hướng chính"><a href="index.html#collection">Sản phẩm</a><a href="index.html#why">Điểm nổi bật</a><a href="index.html#story">Về Undo</a><a href="chinh-sach.html">Chính sách</a><a href="huong-dan-su-dung.html">Hướng dẫn sử dụng</a></nav></div></header>
 <main id="main" class="wrap support-page">
 <a class="support-back" href="index.html">Về trang chủ</a>
 <h1>Giao hàng và đổi trả</h1><p class="support-intro">Chính sách mô phỏng của dự án học phần. Website không mở bán hoặc nhận thanh toán.</p>

diff --git a/bao-hanh.html b/bao-hanh.html
@@ -12,7 +12,7 @@
 </head>
 <body>
 <a class="skip" href="#main">Bỏ qua đến nội dung</a>
-<header class="support-header"><div class="nav"><a class="brand" href="index.html" aria-label="UnDo - Trang chủ"><img src="asset/logo.png" alt="UnDo" /></a><nav class="support-nav" aria-label="Điều hướng chính"><a href="index.html">Trang chủ</a><a href="index.html#collection">Sản phẩm</a><a href="index.html#story">Về UnDo</a><a href="huong-dan-su-dung.html">Hướng dẫn sử dụng</a></nav></div></header>
+<header class="support-header"><div class="nav"><a class="brand" href="index.html" aria-label="UnDo - Trang chủ"><img src="asset/logo.png" alt="UnDo" /></a><nav class="support-nav" aria-label="Điều hướng chính"><a href="index.html#collection">Sản phẩm</a><a href="index.html#why">Điểm nổi bật</a><a href="index.html#story">Về Undo</a><a href="chinh-sach.html">Chính sách</a><a href="huong-dan-su-dung.html">Hướng dẫn sử dụng</a></nav></div></header>
 <main id="main" class="wrap support-page">
 <a class="support-back" href="index.html">Về trang chủ</a>
 <h1>Chính sách bảo hành</h1><p class="support-intro">Chính sách mô phỏng của dự án học phần. Website không mở bán hoặc nhận thanh toán.</p>

diff --git a/bao-mat.html b/bao-mat.html
@@ -12,7 +12,7 @@
 </head>
 <body>
 <a class="skip" href="#main">Bỏ qua đến nội dung</a>
-<header class="support-header"><div class="nav"><a class="brand" href="index.html" aria-label="UnDo - Trang chủ"><img src="asset/logo.png" alt="UnDo" /></a><nav class="support-nav" aria-label="Điều hướng chính"><a href="index.html">Trang chủ</a><a href="index.html#collection">Sản phẩm</a><a href="index.html#story">Về UnDo</a><a href="huong-dan-su-dung.html">Hướng dẫn sử dụng</a></nav></div></header>
+<header class="support-header"><div class="nav"><a class="brand" href="index.html" aria-label="UnDo - Trang chủ"><img src="asset/logo.png" alt="UnDo" /></a><nav class="support-nav" aria-label="Điều hướng chính"><a href="index.html#collection">Sản phẩm</a><a href="index.html#why">Điểm nổi bật</a><a href="index.html#story">Về Undo</a><a href="chinh-sach.html">Chính sách</a><a href="huong-dan-su-dung.html">Hướng dẫn sử dụng</a></nav></div></header>
 <main id="main" class="wrap support-page">
 <a class="support-back" href="index.html">Về trang chủ</a>
 <h1>Chính sách bảo mật</h1><p class="support-intro">Chính sách mô phỏng của dự án học phần. Website không mở bán hoặc nhận thanh toán.</p>

diff --git a/CHANGELOG.md b/CHANGELOG.md
@@ -2,6 +2,34 @@
 
 Ghi thay đổi theo ngày. Dự án chưa gán phiên bản phát hành.
 
+## 2026-11-12
+
+- Giữ chỗ cho thanh cuộn để bố cục không dịch khi mở hoặc đóng giỏ hàng và hộp thoại.
+
+
+- Bỏ nhãn Sáu mẫu cốc Undo; khôi phục focus khi đóng hộp thoại mà không cuộn trang.
+
+
+- Tách nút chọn mẫu cốc khỏi đoạn mô tả và cân dòng hai khối chọn mẫu, câu chuyện.
+
+
+- Rà soát ngắt dòng: bỏ ngắt cứng ở tiêu đề FAQ, cân dòng câu hỏi và nội dung ngắn, giữ liên kết hỗ trợ thành từng cụm.
+
+
+- Khôi phục nhãn dự án tiếng Anh theo commit trước; cập nhật phiên bản đường dẫn bốn ảnh để tải ảnh mới.
+
+
+- Giữ chú thích trên ảnh hero bằng tiếng Việt theo yêu cầu.
+
+
+- Chỉnh bốn ảnh bối cảnh bằng ChatGPT Image: bỏ chữ ghép, thay mẫu cốc và chuyển nền sang trắng trung tính.
+
+
+- Chuyển chú thích dự án sang tiếng Việt và bỏ chú thích tiếng Anh ở hướng dẫn sử dụng.
+
+
+- Đồng bộ điều hướng header các trang hỗ trợ với trang chủ và căn các mục sang phải.
+
 ## 2026-11-06
 
 ### Hướng dẫn sử dụng
